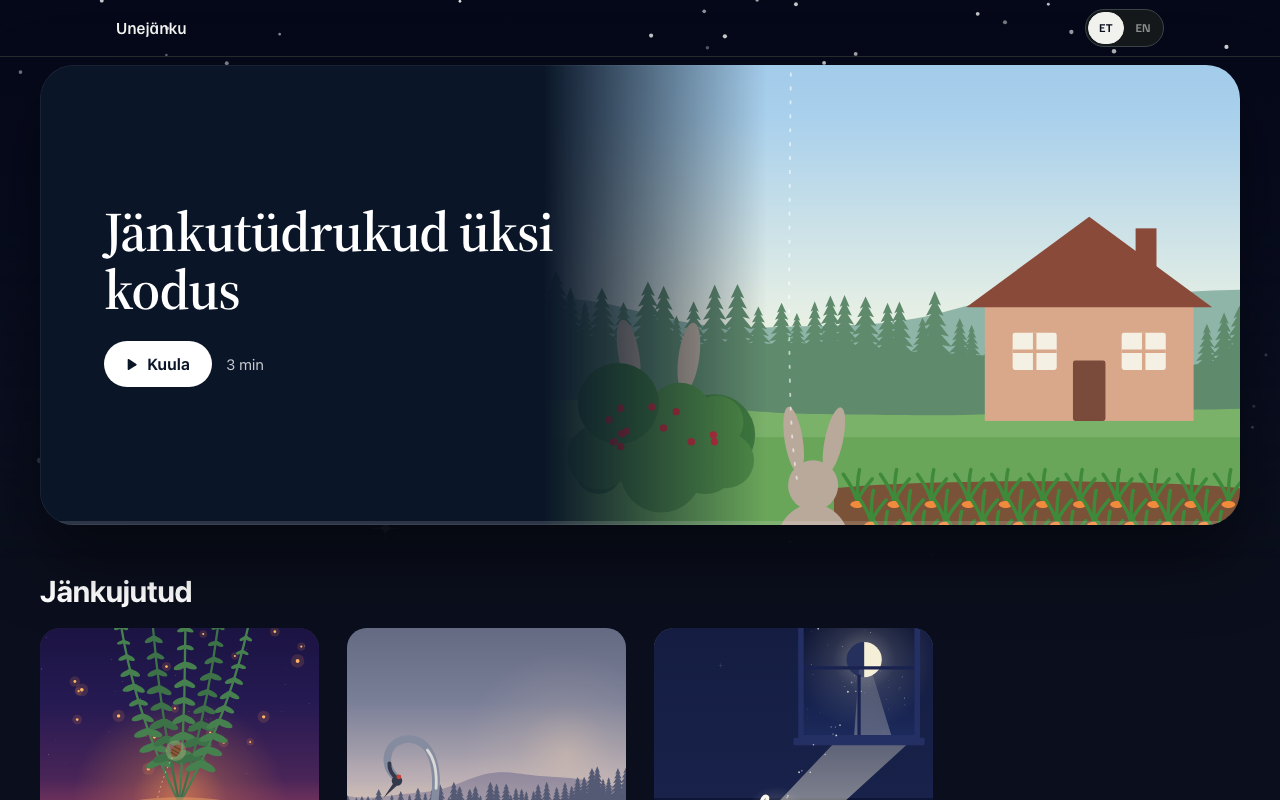
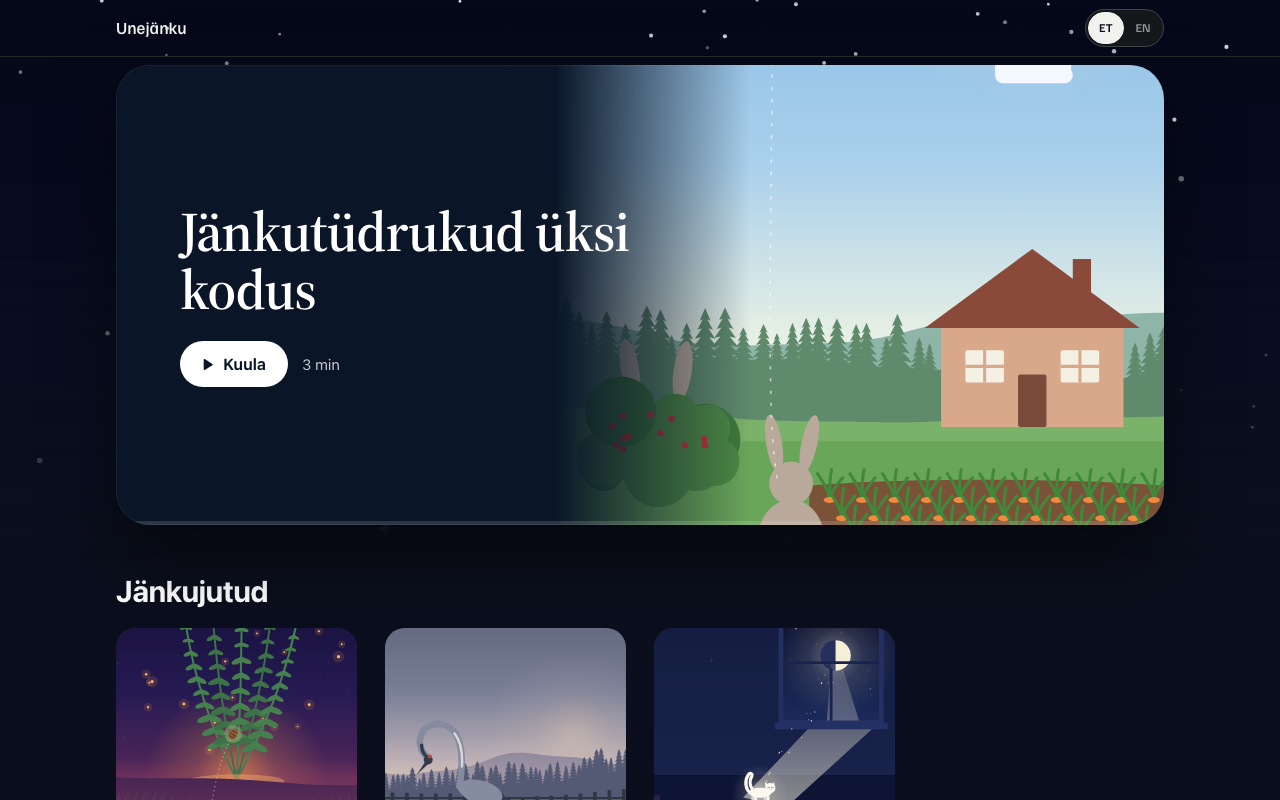
Listening view hides the header and has a solid control dock; library on the header's column
On a phone the story's text no longer shows through the player controls,
and the family header's language pill no longer peeks above the story's
own bar while a story plays. Header, library and footer share the family
header's 1080 px column and one left edge. The footer reads "Töötab
koduserveris Eestis".

diff --git a/src/stories.css b/src/stories.css
@@ -61,6 +61,9 @@ body.stories-page {
   --row: rgb(255 255 255 / 0.08);
   --art: #121a33;
   --edge: 16px;
+  /* The family header's column; header, library and footer share its left edge. */
+  --column: 1080px;
+  --gutter: max(var(--edge), (100% - var(--column)) / 2 + var(--edge));
   --bar-rest: 16px;
   --bar-top: max(var(--bar-rest), env(safe-area-inset-top));
   --dock-space: 15rem;
@@ -160,10 +163,10 @@ body.stories-page::before {
   display: flex;
   align-items: center;
   justify-content: space-between;
-  max-width: 1232px;
+  max-width: var(--column);
   height: calc(52px + var(--header-top));
   margin: 0 auto;
-  padding: var(--header-top) max(20px, env(safe-area-inset-right)) 0 max(20px, env(safe-area-inset-left));
+  padding: var(--header-top) max(var(--edge), env(safe-area-inset-right)) 0 max(var(--edge), env(safe-area-inset-left));
 }
 
 [data-view="story"] .app-header {
@@ -223,7 +226,7 @@ body.stories-page::before {
 /* Library */
 .library {
   position: relative;
-  max-width: 1232px;
+  max-width: var(--column);
   margin: 0 auto;
   padding: 10px max(var(--edge), env(safe-area-inset-right)) 0 max(var(--edge), env(safe-area-inset-left));
 }
@@ -749,7 +752,7 @@ body.stories-page::before {
 
 .stories-page .site-footer {
   margin-top: 2rem;
-  padding: 1.25rem max(24px, env(safe-area-inset-right)) 2.5rem max(24px, env(safe-area-inset-left));
+  padding: 1.25rem max(var(--gutter), env(safe-area-inset-right)) 2.5rem max(var(--gutter), env(safe-area-inset-left));
 }
 
 body[data-started] .app-footer,
@@ -1038,6 +1041,11 @@ body[data-playing] .icon-pause {
   background: linear-gradient(rgb(4 10 26 / 0.55), rgb(4 10 26 / 0.72) 30%, rgb(4 10 26 / 0.6) 62%, rgb(4 10 26 / 0.92));
 }
 
+/* The story's own bar takes the header's place, so the header's language pill does not peek above it. */
+[data-view="story"][data-listening] .site-header {
+  visibility: hidden;
+}
+
 [data-listening] .story-bar {
   position: fixed;
   top: 0;
@@ -1111,7 +1119,7 @@ body[data-playing] .icon-pause {
   display: flex;
   flex-direction: column;
   padding: 64px max(26px, env(safe-area-inset-right)) max(20px, env(safe-area-inset-bottom)) max(26px, env(safe-area-inset-left));
-  background: linear-gradient(rgb(4 10 26 / 0), rgb(4 10 26 / 0.96) 52px);
+  background: linear-gradient(rgb(4 10 26 / 0), rgb(4 10 26) 52px);
 }
 
 .dock-track {
@@ -1359,7 +1367,7 @@ body[data-playing] .icon-pause {
   }
 }
 
-/* Desktop: the library at 1200px, the hero text left and picture right, four covers a row;
+/* Desktop: the library at 1080px, the hero text left and picture right, four covers a row;
    the listening view in two columns, picture and controls left, text right. */
 @media (min-width: 960px) {
   body.stories-page {

diff --git a/src/copy.ts b/src/copy.ts
@@ -101,7 +101,7 @@ const et = {
   headerDemoNoteStories: 'Mõned jutud kogust, ülejäänud jäävad perele.',
   headerDemoLink: 'Perele →',
   footerLinksLabel: 'Lehe lingid',
-  footer: 'Ise majutatud Eestis',
+  footer: 'Töötab koduserveris Eestis',
   privacyLink: 'Privaatsus',
 };
 
@@ -202,7 +202,7 @@ const en: Record<CopyKey, string> = {
   headerDemoNoteStories: 'A few stories from the collection; the rest stay with the family.',
   headerDemoLink: 'For family →',
   footerLinksLabel: 'Page links',
-  footer: 'Self-hosted in Estonia',
+  footer: 'Runs on a home server in Estonia',
   privacyLink: 'Privacy',
 };
 

diff --git a/src/shell.css b/src/shell.css
@@ -44,7 +44,7 @@
 .site-header {
   --khe-header-font: var(--sans);
   --khe-header-title-weight: 500;
-  --khe-header-max-width: 1080px;
+  --khe-header-max-width: var(--column, 1080px);
   /* Transparent over the library's sky (estate ADR-035 point 12). */
   --khe-header-bg: transparent;
   --khe-header-blur: 0px;
